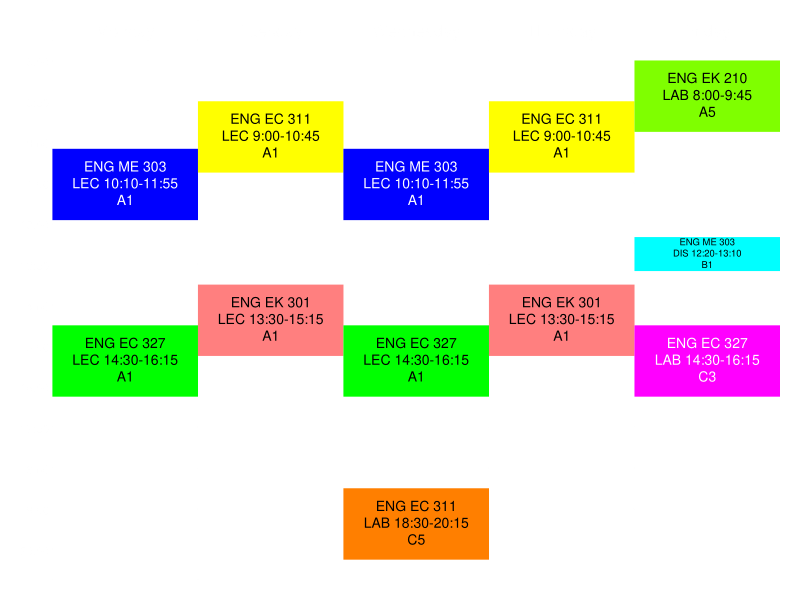
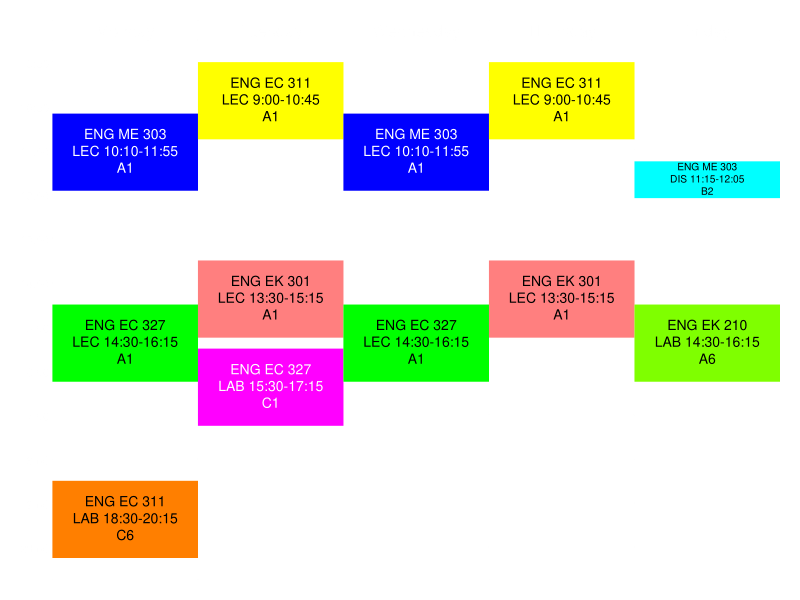
fix image show

diff --git a/templates/plan.html b/templates/plan.html
@@ -6,17 +6,20 @@
 <script>
     function shownext() {
         $.ajax({
-            url: "/plan/showschedule/{{plan.id}}/1",
+            url: "/plan/showschedule/{{plan.id}}/-2",
             type: "POST",
             success: function (data) {
                 $("#img").prop('src', '/static/Users/{{user.id}}/{{plan.id}}/schedule.png?' + new Date().getTime());
                 $("#num").prop('value', data.num);
+                {%if (plan.planNum == -1)%}
+                location.reload();
+                {% endif %}
             }
         });
     }
     function showprevious() {
         $.ajax({
-            url: "/plan/showschedule/{{plan.id}}/3",
+            url: "/plan/showschedule/{{plan.id}}/-4",
             type: "POST",
             success: function (data) {
                 $("#img").prop('src', '/static/Users/{{user.id}}/{{plan.id}}/schedule.png?' + new Date().getTime());
@@ -27,7 +30,7 @@
     function goto() {
         var n = $("#num").val();
         $.ajax({
-            url: "/plan/goto/{{plan.id}}/" + n,
+            url: "/plan/showschedule/{{plan.id}}/" + n,
             type: "POST",
             success: function (data) {
                 $("#img").prop('src', '/static/Users/{{user.id}}/{{plan.id}}/schedule.png?' + new Date().getTime());

diff --git a/web.py b/web.py
@@ -309,79 +309,47 @@ def rankPlans(planID):
     return redirect('/plan/' + planID)
 
 
-@app.route('/plan/showschedule/<int:planID>/<int:n>', methods=['POST'])
+@app.route('/plan/showschedule/<int:planID>/<string:n>', methods=['POST'])
 @login_required
 def showSchedule(planID, n):
+    n = int(n)
     msg = []
     user = User.query.get(current_user.get_id())
     plan = Plan.query.get(planID)
+    oldNum = plan.planNum
     planID = str(planID)
     userID = str(user.id)
     semester = plan.semester
-    num = plan.planNum + (2-n)
+    if (n == -2 or n == -4):
+        newNum = plan.planNum + (3+n)
+    else:
+        newNum = n-1
     try:
-        rankPath = "./Users/" + userID + "/" + planID + "/"
-        rankName = semester + " Ranking"
-        book = xlrd.open_workbook(rankPath + rankName + ".xls")
-        sheet = book.sheet_by_name(rankName)
-        maxNum = sheet.nrows - 1
-        if (num < 0):
-            num = 0
-        elif (num > maxNum):
-            num = maxNum
-        planName = sheet.cell_value(num, 0)
-        plan.planNum = num
-        db.session.commit()
-        print(planName)
+        if (newNum < 0):
+            newNum = 0
+        try:
+            rankPath = "./Users/" + userID + "/" + planID + "/"
+            rankName = semester + " Ranking"
+            book = xlrd.open_workbook(rankPath + rankName + ".xls")
+            sheet = book.sheet_by_name(rankName)
+            maxNum = sheet.nrows
+            if (newNum > maxNum):
+                newNum = maxNum-1
+            planName = sheet.cell_value(newNum, 0)
+        except:
+            planName = "Plan " + str(newNum+1)
         try:
             GetSchedulePic.GetSchedulePic(semester, userID, planID, planName)
+            plan.planNum = newNum
+            db.session.commit()
         except:
             pass
+        print("Plan " + str(plan.planNum + 1))
         # msg.append("See your schedules below")
     except:
         msg.append("Can't create your schedules")
     session['messages'] = msg
-    return jsonify(num=num+1)
-
-
-@app.route('/plan/goto/<int:planID>/<string:num>', methods=['POST'])
-@login_required
-def goToSchedule(planID, num):
-    msg = []
-    user = User.query.get(current_user.get_id())
-    plan = Plan.query.get(planID)
-    planID = str(planID)
-    userID = str(user.id)
-    semester = plan.semester
-    try:
-        if (int(num) > 0):
-            num = int(num)-1
-        else:
-            num = 0
-    except:
-        num = 0
-    try:
-        rankPath = "./Users/" + userID + "/" + planID + "/"
-        rankName = semester + " Ranking"
-        book = xlrd.open_workbook(rankPath + rankName + ".xls")
-        sheet = book.sheet_by_name(rankName)
-        maxNum = sheet.nrows - 1
-        if (num > maxNum):
-            num = maxNum
-        print(num)
-        planName = sheet.cell_value(num, 0)
-        plan.planNum = num
-        db.session.commit()
-        print(planName)
-        try:
-            GetSchedulePic.GetSchedulePic(semester, userID, planID, planName)
-        except:
-            pass
-        # msg.append("See your schedules below")
-    except:
-        msg.append("Can't create your schedules")
-    session['messages'] = msg
-    return jsonify(num=num+1)
+    return jsonify(num=plan.planNum+1)
 
 
 if __name__ == "__main__":
